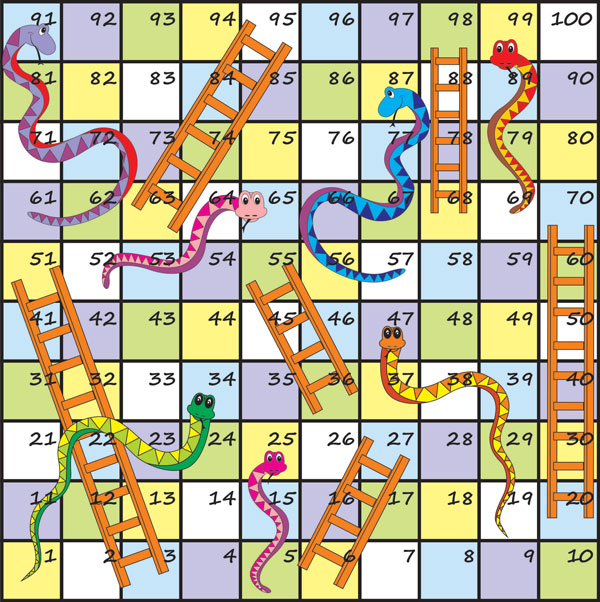
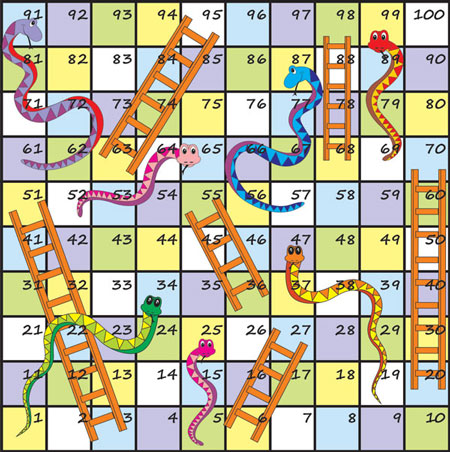
decrease siye of the board

Changed region(s): [[0.0, 0.0, 1.0, 1.0]]

diff --git a/Snakes&Ladders/game-style.css b/Snakes&Ladders/game-style.css
@@ -1,12 +1,12 @@
 .game-wrapper {
-	width: 600px;
+	width: 450px;
 	margin: 25px auto;
 }
 
 #board {
 	position: relative;
-	width: 600px;
-	height: 602px;
+	width: 450px;
+	height: 452px;
 	margin-bottom: 10px;
 	background-image: url('board.jpg');
 	background-repeat: no-repeat;
@@ -52,7 +52,7 @@
 
 
 #game-info {
-	width: 350px;
+	width: 230px;
 	margin-left: 25px;
 	line-height: 55px;
 }
